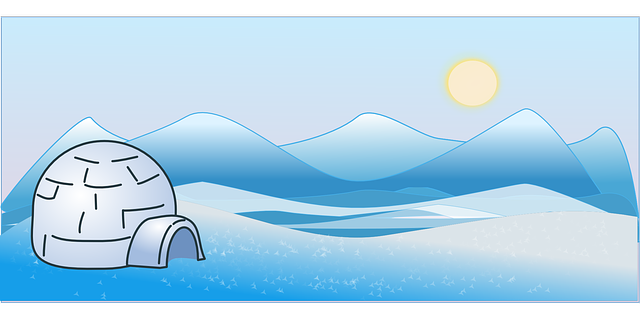
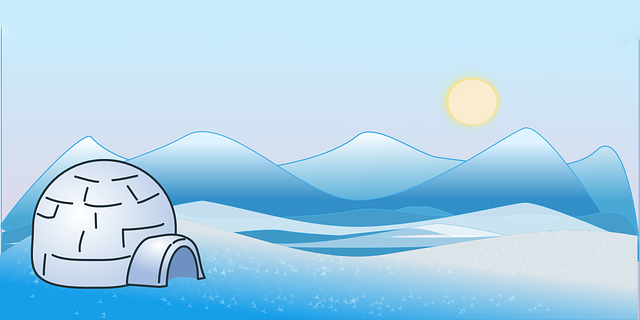
Added additional graphics and started OOP for game objects.

diff --git a/game.py b/game.py
@@ -1,49 +1,65 @@
-
-import pygame, sys
+import GameObjects
+import pygame
+import sys
 import random
-pygame.init()
 
-size = width, height = 620,320
-color = 208,236,253
-black = 0,0,0
-white = 255,255,255
-red = 255,2,2
-screen = pygame.display.set_mode(size)
+pygame.init()
 clock = pygame.time.Clock()
 
-penguin_width = 34
-penguin_height = 34
-obstacle_width = 57
+
+# delete as soon as possible
 obstacle_height = 52
-snowball_width = 34
-snowball_height = 34
+obstacle_width = 57
 
+
+bg_filenames = ('assets/images/bg_title.jpg',
+                'assets/images/bg_game.jpg',
+                'assets/images/bg_credits.jpg'
+                )
+
+
+# setup game display
+bg_northpole = pygame.image.load(bg_filenames[1])
+size = width, height = 620*2,320*2
+screen = pygame.display.set_mode(size)
 pygame.display.set_caption('Penguin')
+pygame.display.set_icon(pygame.image.load('assets/images/penguin_icon.png').convert_alpha())
 
-#background
-northpole = pygame.image.load("assets/images/polar.png")
+# Set Color Constants
+PALE_BLUE = 208, 236, 253
+BLACK = (0, 0, 0)
+WHITE = (255, 255, 255)
+RED = (255, 2, 2)
+
+
+penguin_img = pygame.image.load('assets/images/small_penguin.png')
+penguin = GameObjects.Penguin(width=34,height=34,img=penguin_img)
+
+obstacle_img = pygame.image.load('assets/images/obstacle1.png')
+obstacle = GameObjects.Obstacle(width=57, height=52, img=obstacle_img)
+
+snowball_img = pygame.image.load('assets/images/small_snowball.png').convert_alpha()
+snowball = GameObjects.Snowball(width=34, height=34, img=snowball_img)
+
+
 
 #obstacle
-obstacle = pygame.image.load("assets/images/obstacle1.png")
-smallobstacle = pygame.transform.scale(obstacle,(obstacle_width,obstacle_height))
-obstaclerect= smallobstacle.get_rect()
-#SNOW BALL
-snowball= pygame.image.load("assets/images/snowball-icon.png")
-smallball = pygame.transform.scale(snowball,(snowball_width,snowball_height))
-snowballrect = smallball.get_rect()
-#snowball.set_colorkey(black)
+#obstaclerect= smallobstacle.get_rect()
 
-#penguin 
-penguin = pygame.image.load('assets/images/penguin2.png')
-smallpenguin= pygame.transform.scale(penguin,(penguin_width,penguin_height))
-penguinrect = smallpenguin.get_rect()
-smallpenguin.set_colorkey(white)
+#snowball= pygame.image.load("assets/images/snowball-icon.png")
+#smallball = pygame.transform.scale(snowball,(snowball_width,snowball_height))
+#snowballrect = smallball.get_rect()
+#snowball.set_colorkey(BLACK)
+
+def pquit():
+    pygame.quit()
+    exit()
 
 def background(xpol,ypol):
-    screen.blit(northpole,(xpol,ypol))
+    screen.blit(bg_northpole,(xpol,ypol))
 
 def ball(x1,y2):
-    screen.blit(smallball,(x1,y2))
+    screen.blit(snowball_img,(x1,y2))
 
 def game_over():
     font = pygame.font.SysFont(None,80)
@@ -52,10 +68,10 @@ def game_over():
     screen.blit(message,(165,100))
 
 def obstacles(xloc,yloc):
-    screen.blit(smallobstacle,(xloc,yloc))
+    screen.blit(obstacle.img,(xloc,yloc))
     
 def pin(x,y):
-    screen.blit(smallpenguin,(x,y))
+    screen.blit(penguin.img,(penguin.x, penguin.y))
 
 def game_loop():
     
@@ -87,35 +103,35 @@ def game_loop():
 
         for event in pygame.event.get():
             if event.type == pygame.QUIT:
-                
-                pygame.quit()
-                sys.exit()
+                pquit()
 
-                #check for keys being pressed by user 
             if event.type == pygame.KEYDOWN:
-                #check fo the left arrow key
-                if event.key == pygame.K_LEFT:
+                if event.key == pygame.K_ESCAPE:
+                    pquit()
+                elif event.key == pygame.K_LEFT:
                     x_change = -5
-                if event.key == pygame.K_RIGHT:
-                    x_change = 5 
-                if event.key == pygame.K_UP:
+                elif event.key == pygame.K_RIGHT:
+                    x_change = 5
+                elif event.key == pygame.K_UP:
                     y_change = -5
-                if event.key == pygame.K_DOWN:
+                elif event.key == pygame.K_DOWN:
                     y_change = 5
+
             if event.type == pygame.KEYUP:
                 if event.key == pygame.K_LEFT or event.key == pygame.K_RIGHT:
                     x_change = 0
+
             if event.type == pygame.KEYUP:
                 if event.key == pygame.K_UP or event.key == pygame.K_DOWN:
                     y_change = 0
                 
          
-        x += x_change
-        y += y_change
+        penguin.x += x_change
+        penguin.y += y_change
 
 
         
-        screen.fill(color)
+        screen.fill(PALE_BLUE)
         background(xpol,ypol)
         pin(x,y)
         ball(x1,y2)
@@ -125,14 +141,14 @@ def game_loop():
         y2 -= ballspeed
         
         #check if penguin crashes on top or at the bottom
-        if y > 323 - penguin_height or y<0:
+        if penguin.y > 323 - penguin.height or penguin.y < 0:
             game_over()
             y_change = 0
             obspeed = 0
             ballspeed = 0
         #check for obstacles
         if y > yloc-obstacle_height:
-            if (x > xloc and x<xloc-obstacle_width) or (x + penguin_width > xloc -penguin_width<xloc - obstacle_width):
+            if (x > xloc and x<xloc-obstacle_width) or (x + penguin.width > xloc - penguin.width < xloc - obstacle_width):
                 game_over()
 
         
@@ -145,9 +161,9 @@ def game_loop():
         clock.tick(60)
         pygame.display.flip()
 
+    pquit()
+
 game_loop()
-pygame.quit()
-quit()
 
 
 

diff --git a/GameObjects.py b/GameObjects.py
@@ -1,0 +1,19 @@
+class GameObjects:
+    def __init__(self, x=0, y=0, width=0, height=0, img=""):
+        self.x = x
+        self.y = y
+        self.width = width
+        self.height = height
+        self.img = img
+
+
+class Penguin(GameObjects):
+    pass
+
+
+class Snowball(GameObjects):
+    pass
+
+
+class Obstacle(GameObjects):
+    pass
